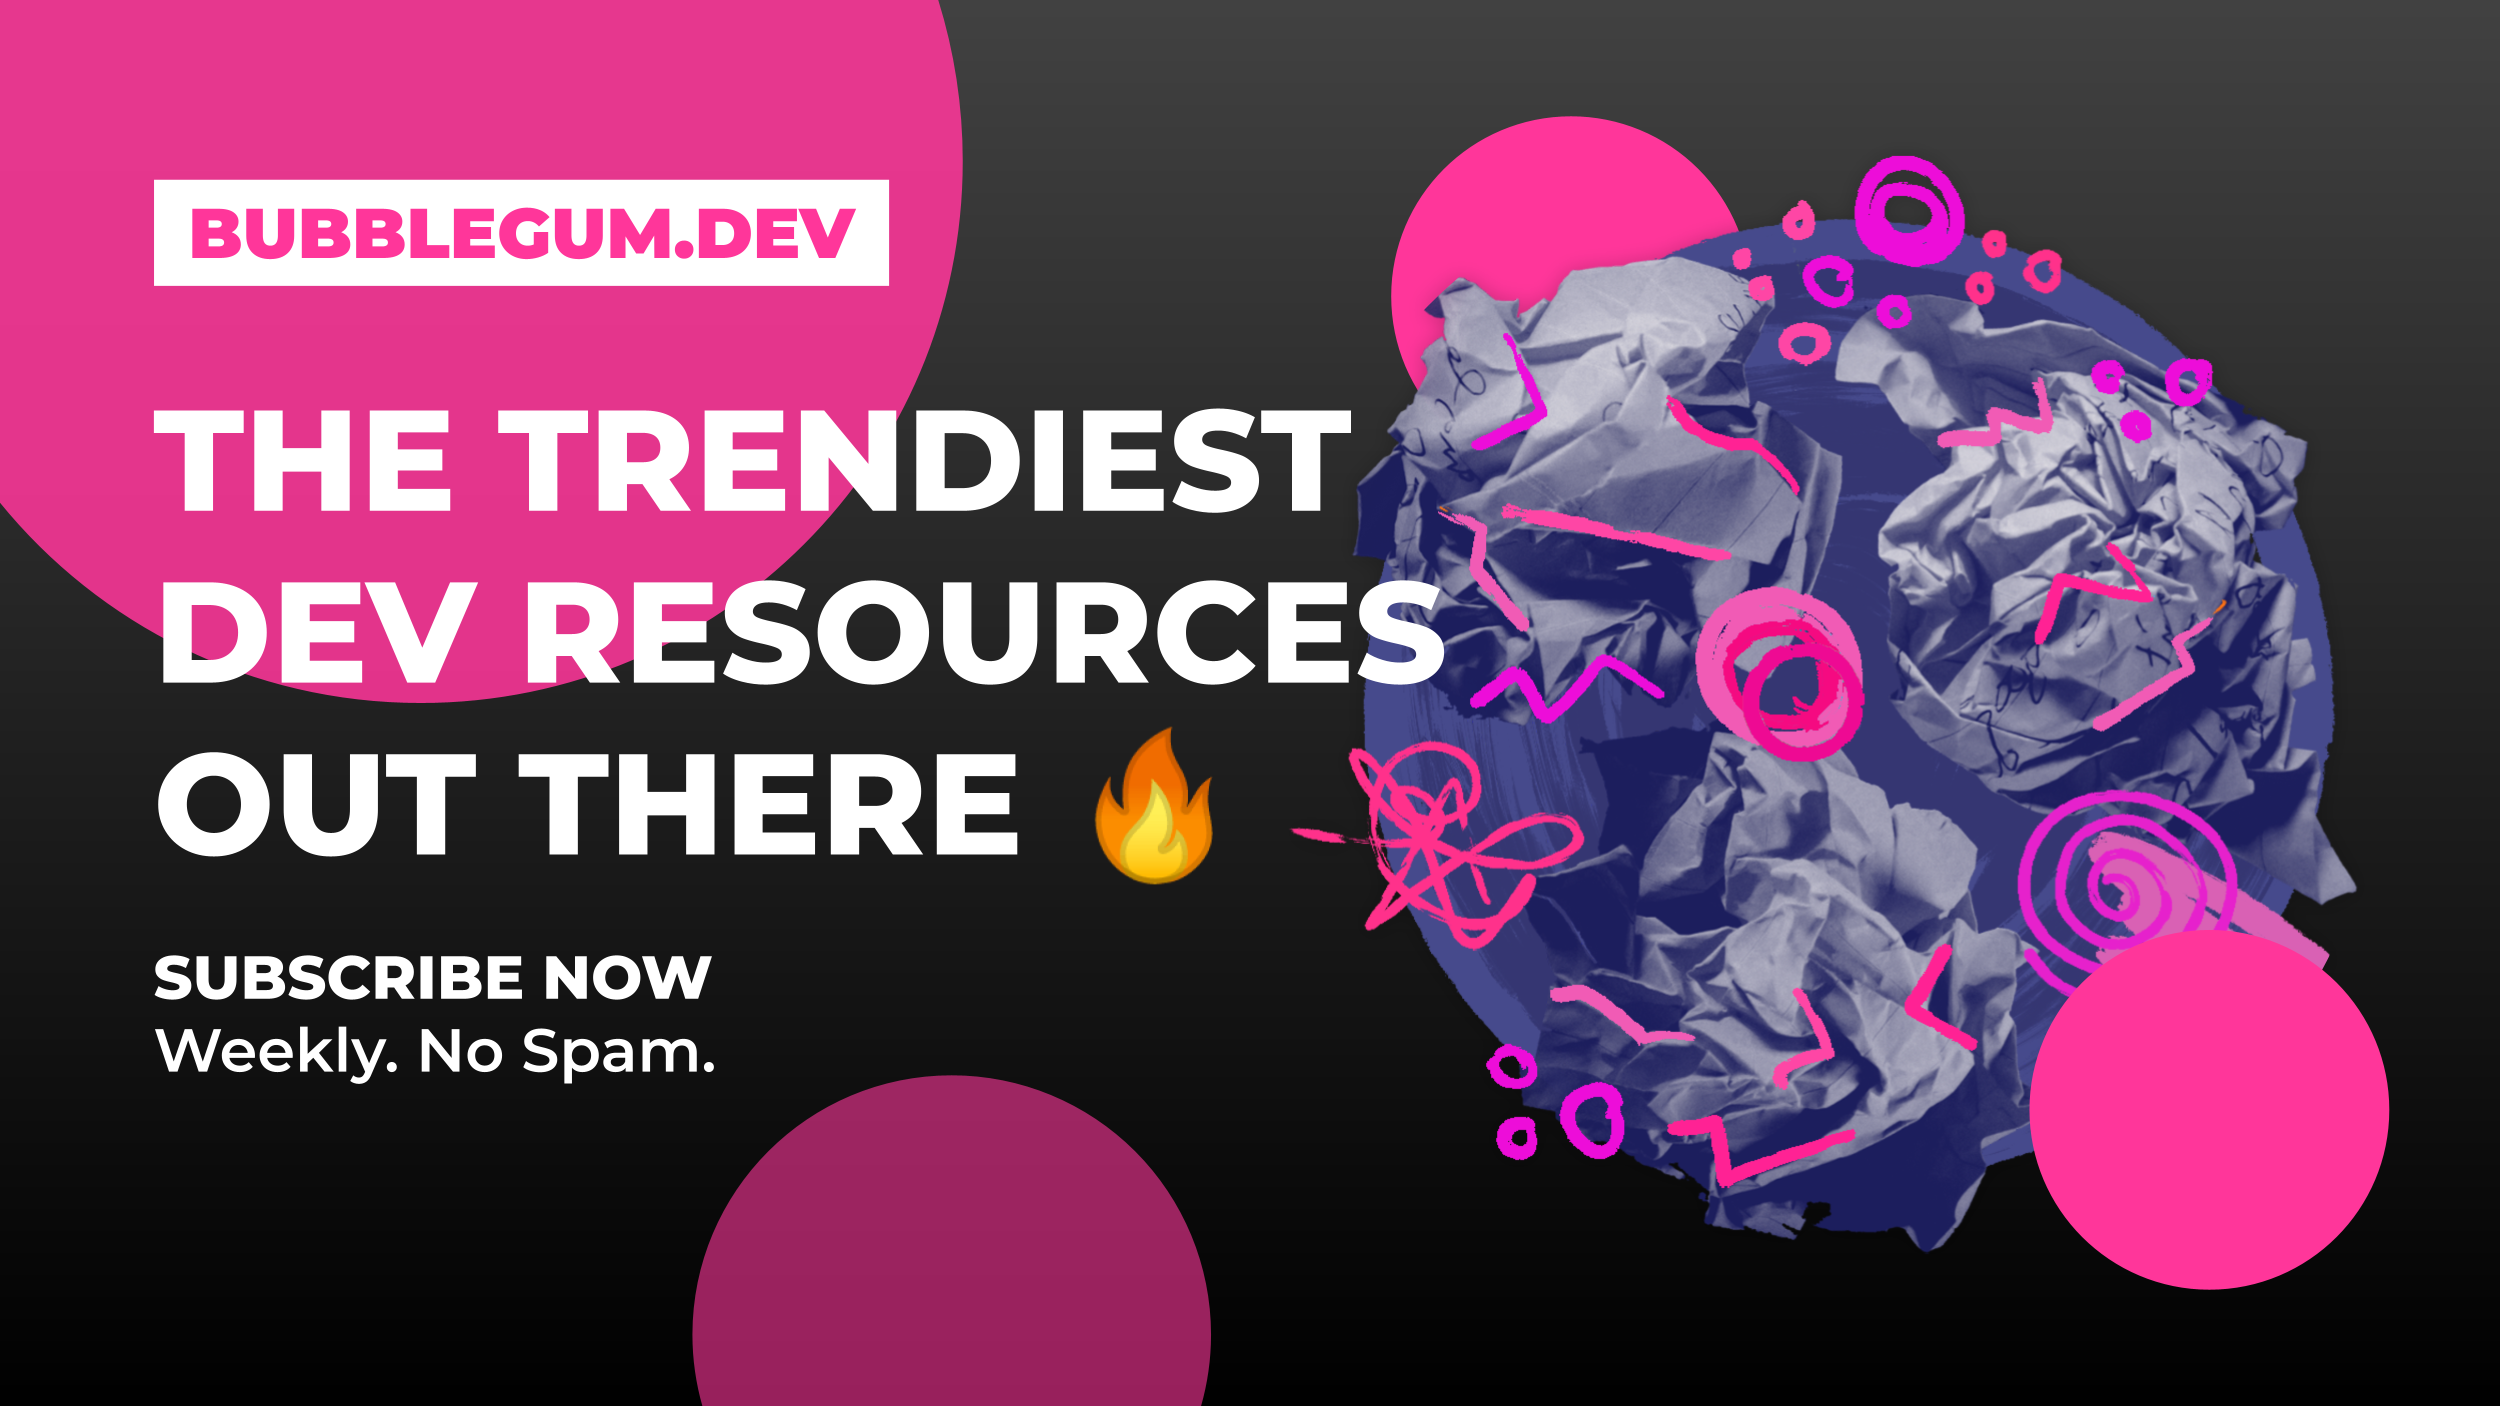
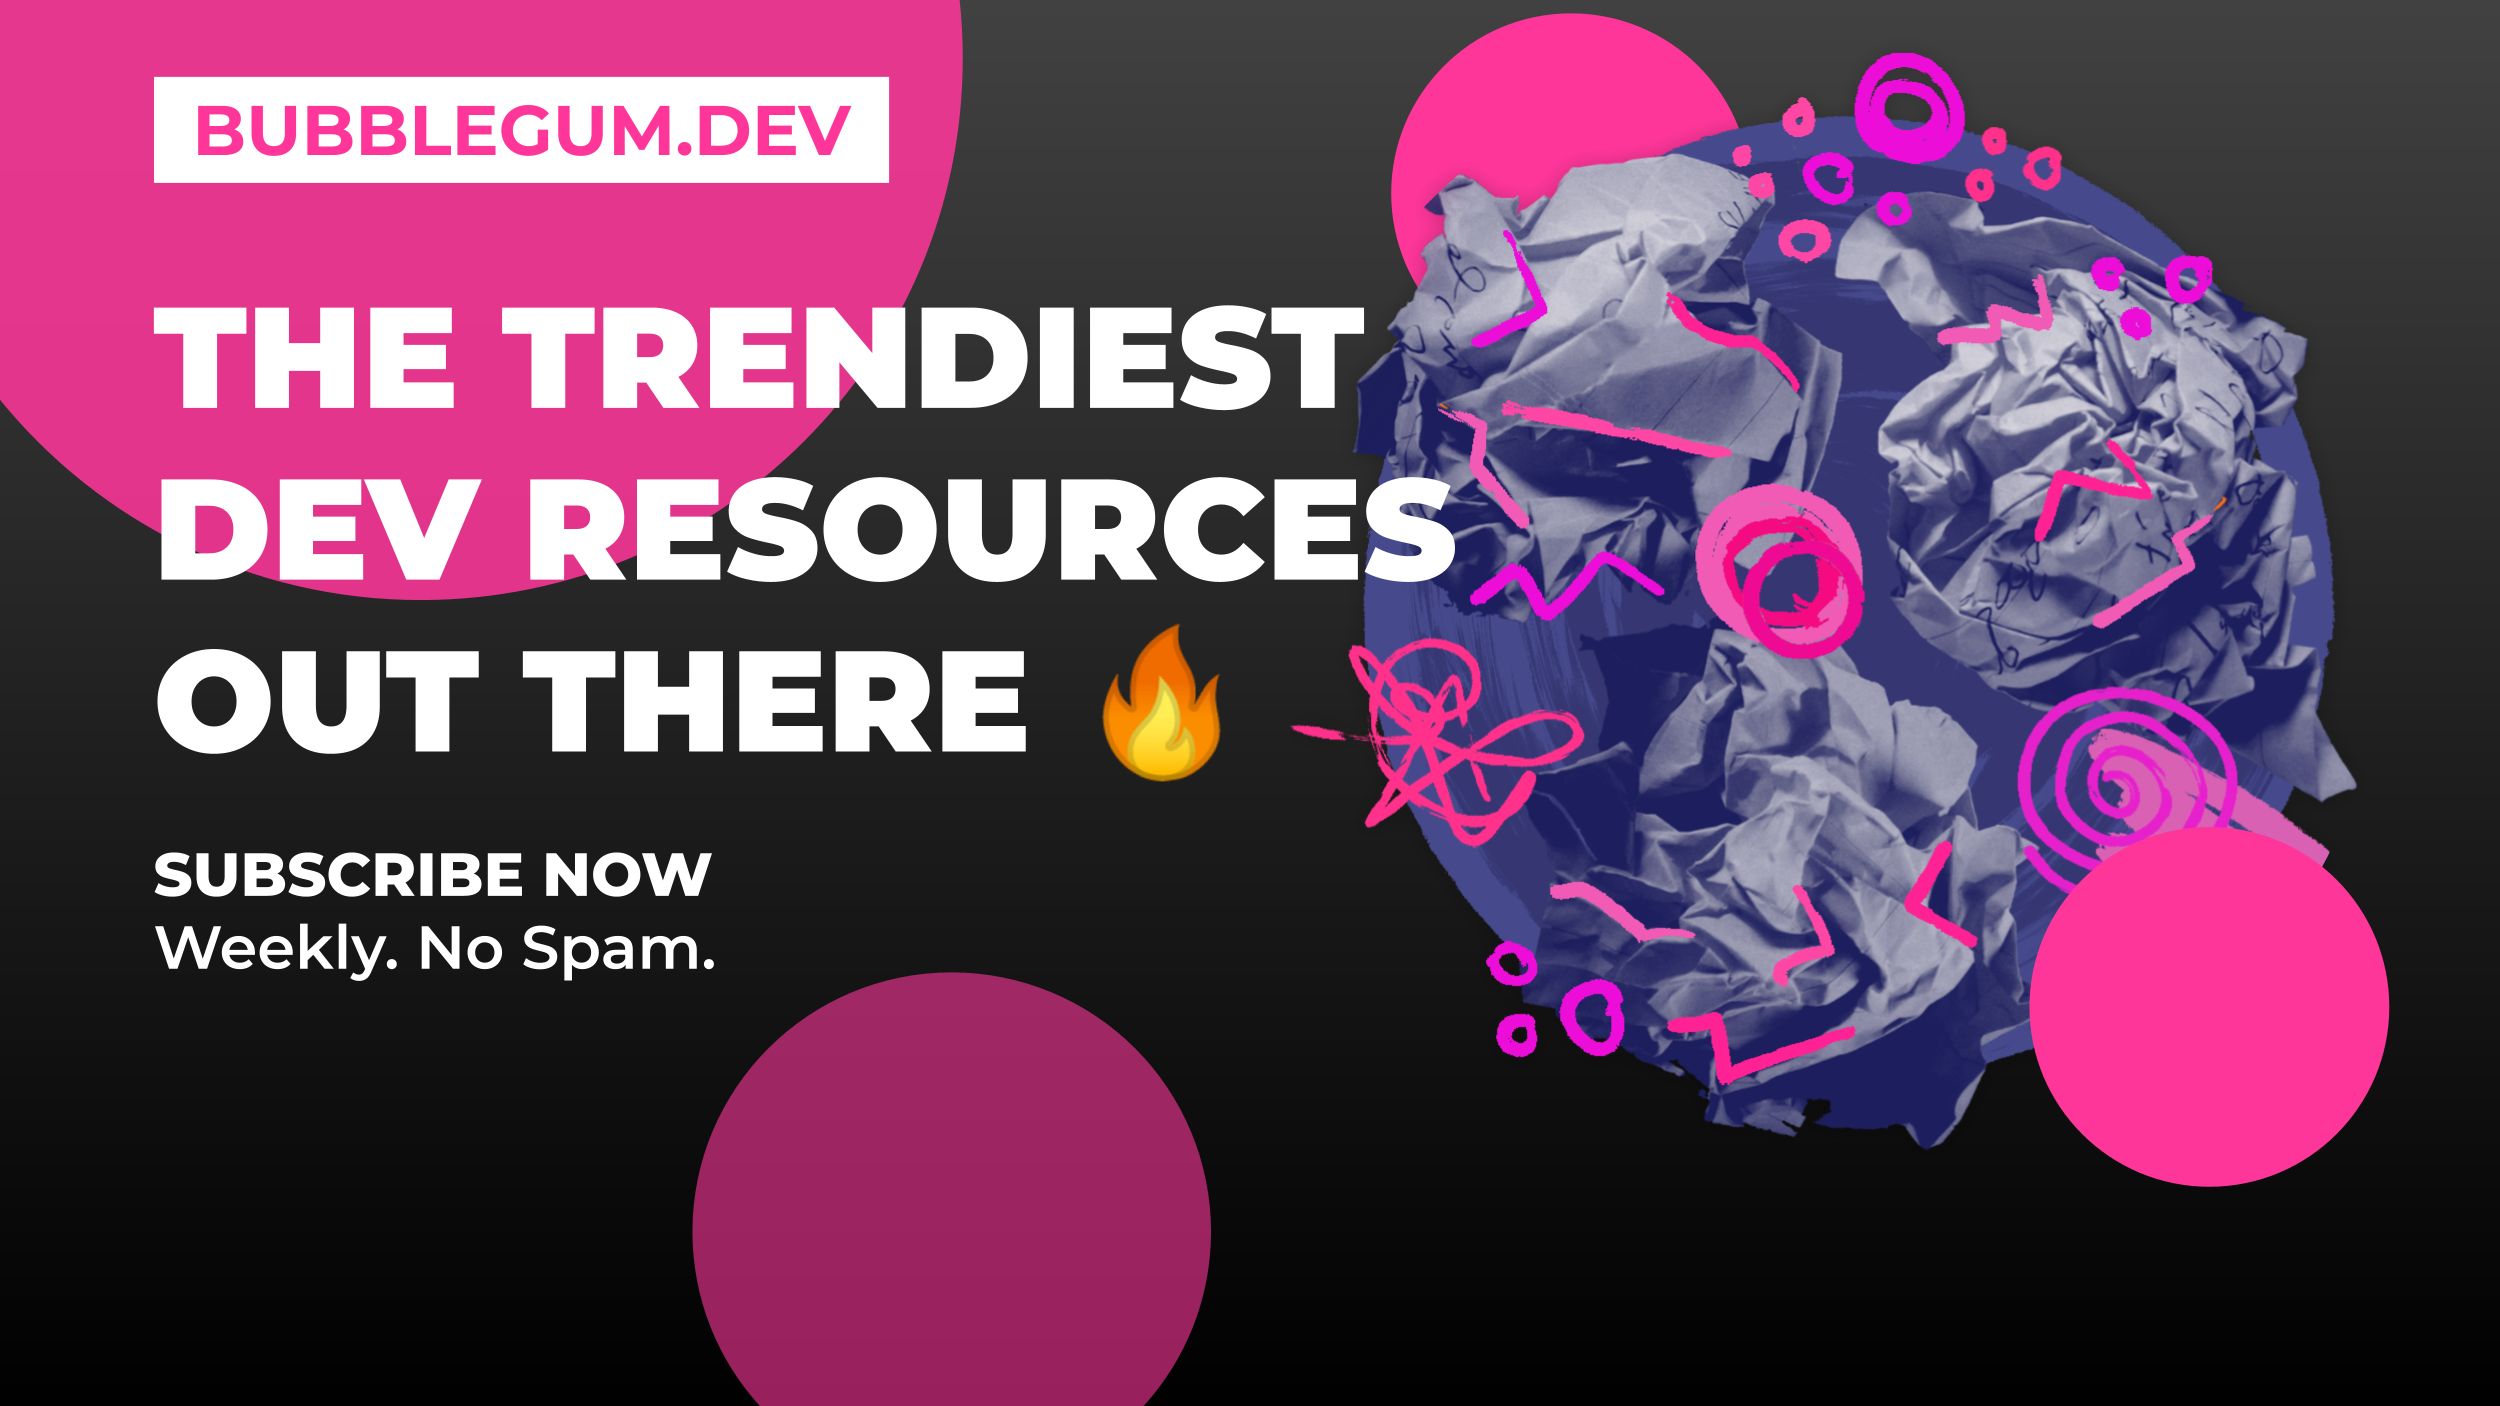
product hunt api added

diff --git a/components/Hero/index.js b/components/Hero/index.js
@@ -14,6 +14,17 @@ export default function Hero() {
         </p>
       </div>
       <Subscribe />
+      <div className={styles.producthunt}>
+        <a
+          href="https://www.producthunt.com/posts/bubblegum-dev?utm_source=badge-featured&utm_medium=badge&utm_souce=badge-bubblegum-dev"
+          target="_blank"
+        >
+          <img
+            src="https://api.producthunt.com/widgets/embed-image/v1/featured.svg?post_id=269088&theme=dark"
+            alt="Bubblegum.dev - Sweetest dev resources delivered to your inbox, weekly 🍬🍬 | Product Hunt"
+          />
+        </a>
+      </div>
     </header>
   );
 }

diff --git a/components/Subscribe/Sub.module.scss b/components/Subscribe/Sub.module.scss
@@ -5,7 +5,7 @@
 
 .wrapperBox {
   width: 550px;
-  margin-top: 5%;
+  margin-top: 2%;
 
   @media(max-width: 768px) {
     margin-top: 2rem;

diff --git a/components/Hero/Hero.module.scss b/components/Hero/Hero.module.scss
@@ -72,3 +72,10 @@
     }
   }
 }
+
+
+.producthunt {
+  display: flex;
+  align-items: center;
+  justify-content: center;
+}
